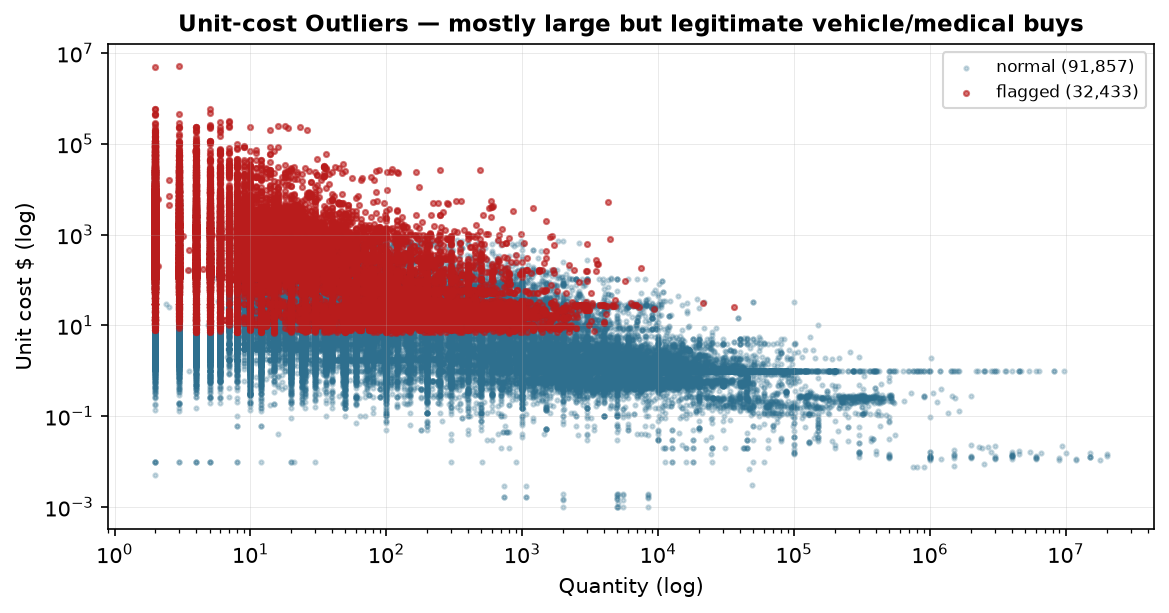
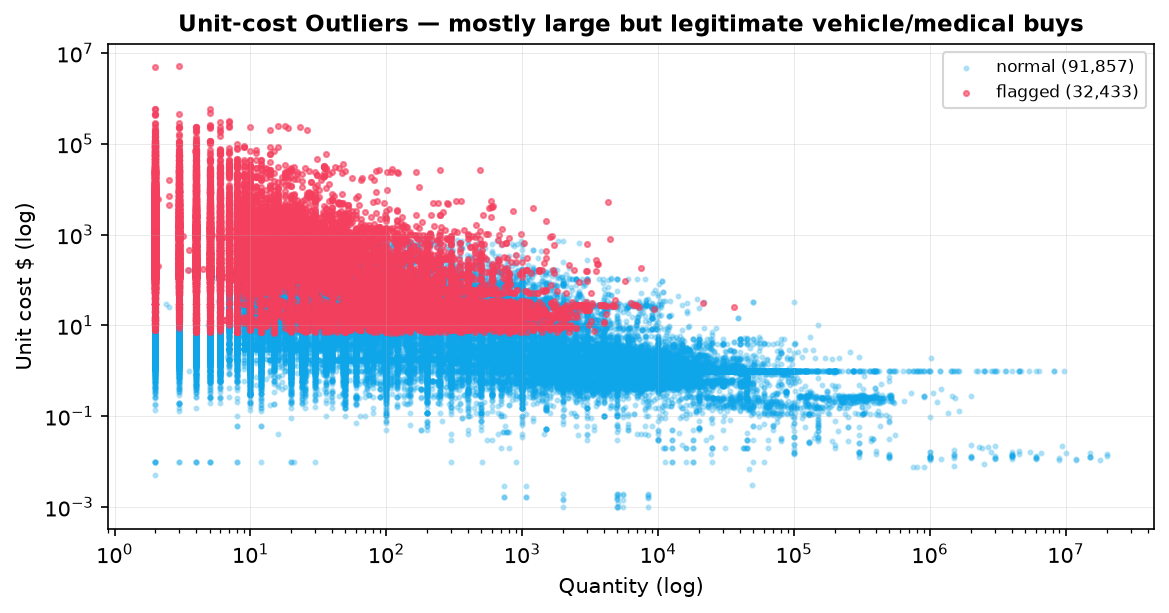
style: fresh light-tech palette - sky blue primary with golden highlight, per user reference

diff --git a/index.html b/index.html
@@ -5,18 +5,18 @@
 <meta name="viewport" content="width=device-width, initial-scale=1">
 <title>California State Procurement — Spend, Concentration &amp; Control Analysis</title>
 <style>
-  :root{--navy:#16324a;--blue:#2e6f8e;--accent:#b45309;--accent-soft:#faf4ec;--ink:#22303f;--muted:#6b7280;--line:#e3e8ee;--bg:#f7f8fa;--card:#fff}
+  :root{--navy:#0284c7;--blue:#0ea5e9;--accent:#f59e0b;--accent-soft:#fffbeb;--ink:#0f172a;--muted:#64748b;--line:#e0f2fe;--bg:#f0f9ff;--card:#fff}
   *{box-sizing:border-box}
   body{margin:0;font-family:-apple-system,BlinkMacSystemFont,"Segoe UI",Roboto,Helvetica,Arial,sans-serif;color:var(--ink);background:var(--bg);line-height:1.6}
   .wrap{max-width:1080px;margin:0 auto;padding:0 24px 80px}
-  header.hero{background:linear-gradient(135deg,var(--navy),var(--blue));color:#fff;padding:56px 24px 44px;margin-bottom:8px}
+  header.hero{background:linear-gradient(135deg,#0369a1,#38bdf8);color:#fff;padding:56px 24px 44px;margin-bottom:8px}
   header.hero h1{margin:0 0 10px;font-size:30px;line-height:1.2}
   header.hero .sub{opacity:.92;font-size:16px;max-width:820px}
   header.hero .meta{margin-top:18px;font-size:13px;opacity:.85}
   nav.tabs{position:sticky;top:0;background:#fff;border-bottom:1px solid var(--line);z-index:5;padding:10px 24px}
   nav.tabs .wrap{padding:0;display:flex;gap:6px;flex-wrap:wrap;max-width:1080px}
   nav.tabs a{color:var(--blue);text-decoration:none;font-size:13px;font-weight:600;padding:6px 12px;border-radius:999px}
-  nav.tabs a:hover{background:#eaf2f7}
+  nav.tabs a:hover{background:#e0f2fe}
   section{padding:36px 0;border-bottom:1px solid var(--line)}
   h2{font-size:22px;color:var(--navy);margin:0 0 6px}
   .kicker{font-size:12px;font-weight:700;letter-spacing:.08em;text-transform:uppercase;color:var(--blue);margin-bottom:4px}
@@ -34,8 +34,8 @@
   .fig{margin:20px 0;text-align:center}
   .fig img{max-width:100%;border:1px solid var(--line);border-radius:8px;background:#fff}
   .fig .cap{font-size:13px;color:var(--muted);margin-top:6px}
-  .pill{display:inline-block;background:#eaf2f7;color:var(--navy);border-radius:999px;padding:2px 10px;font-size:12px;font-weight:600;margin-right:6px}
-  .callout{background:var(--accent-soft);border:1px solid #e3c9a8;border-left:4px solid var(--accent);padding:12px 16px;border-radius:8px;margin:14px 0;font-size:14px}
+  .pill{display:inline-block;background:#e0f2fe;color:var(--navy);border-radius:999px;padding:2px 10px;font-size:12px;font-weight:600;margin-right:6px}
+  .callout{background:var(--accent-soft);border:1px solid #fde68a;border-left:4px solid var(--accent);padding:12px 16px;border-radius:8px;margin:14px 0;font-size:14px}
   .ok{color:#059669;font-weight:700}
   .warn{color:#dc2626;font-weight:700}
   .two{grid-template-columns:1fr 1fr}

diff --git a/scripts/generate_charts.py b/scripts/generate_charts.py
@@ -19,13 +19,14 @@ OUT_DIR = os.path.join(ROOT, "output")
 ASSET_DIR = os.path.join(ROOT, "assets")
 os.makedirs(ASSET_DIR, exist_ok=True)
 
-BLUE = "#2e6f8e"    # steel blue (primary data color)
-NAVY = "#16324a"    # deep navy (emphasis)
-ORANGE = "#b45309"  # burnt amber (highlight)
-GREEN = "#3f6212"   # muted olive (positive / competitive)
-RED = "#b91c1c"     # muted red (flag / alert)
-GREY = "#6b7280"    # neutral grey
-LIGHT = "#cbd5e1"   # light steel (secondary)
+BLUE = "#0ea5e9"    # sky-500 (primary data)
+NAVY = "#0284c7"    # sky-600 (deep emphasis)
+ORANGE = "#f59e0b"  # amber / golden (highlight)
+GREEN = "#10b981"   # emerald (positive / competitive)
+RED = "#f43f5e"     # rose (flag / alert)
+GREY = "#94a3b8"    # slate-400 (neutral)
+LIGHT = "#bae6fd"   # sky-200 (secondary)
+SKY = "#7dd3fc"     # sky-300 (light data)
 
 
 def _save(fig, name):
@@ -156,7 +157,7 @@ hc = dep_sum.get("Health Care Services, Department of", 0) / grand
 rest = 1 - hc
 fig, ax = plt.subplots(figsize=(7.4, 3.8))
 ax.pie([hc, rest], labels=["Health Care Services", "All other departments"],
-       autopct="%1.1f%%", colors=[RED, "#e5e7eb"], startangle=90,
+       autopct="%1.1f%%", colors=[ORANGE, LIGHT], startangle=90,
        textprops={"fontsize": 10})
 ax.set_title("Health Care Services = 66.0% of total spend", fontsize=12, fontweight="bold")
 _save(fig, "healthcare_concentration.png")
